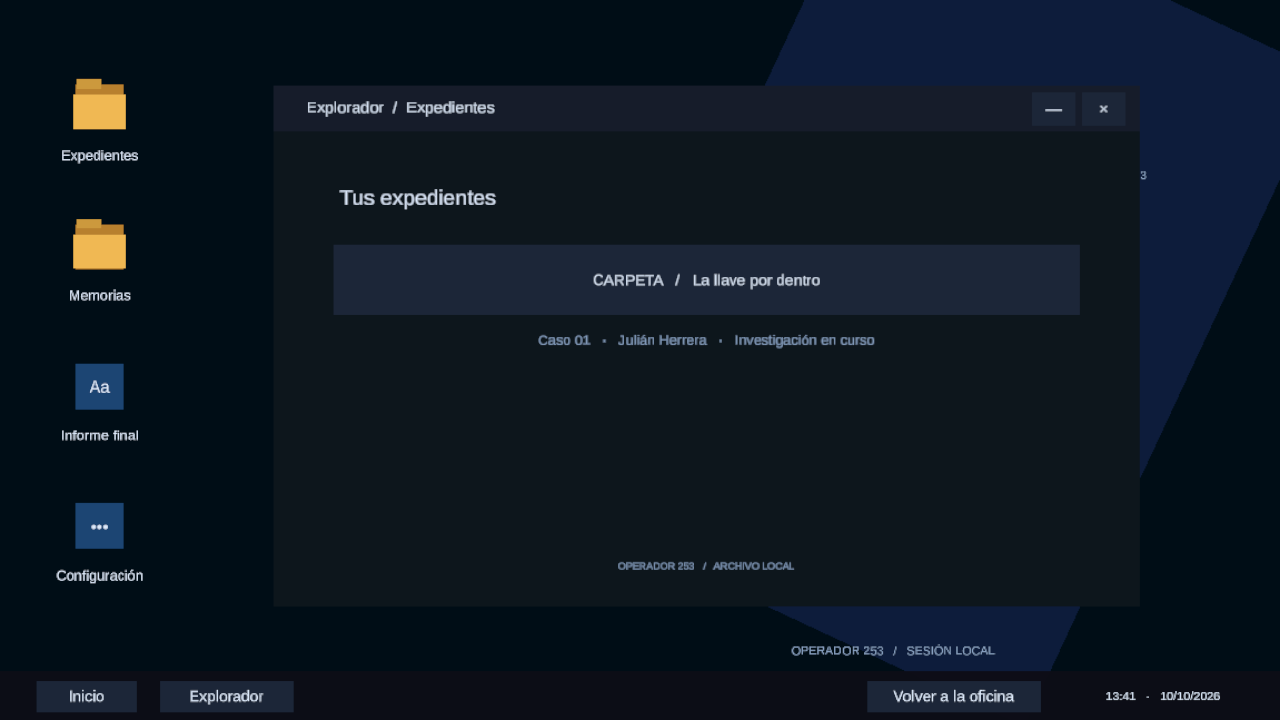
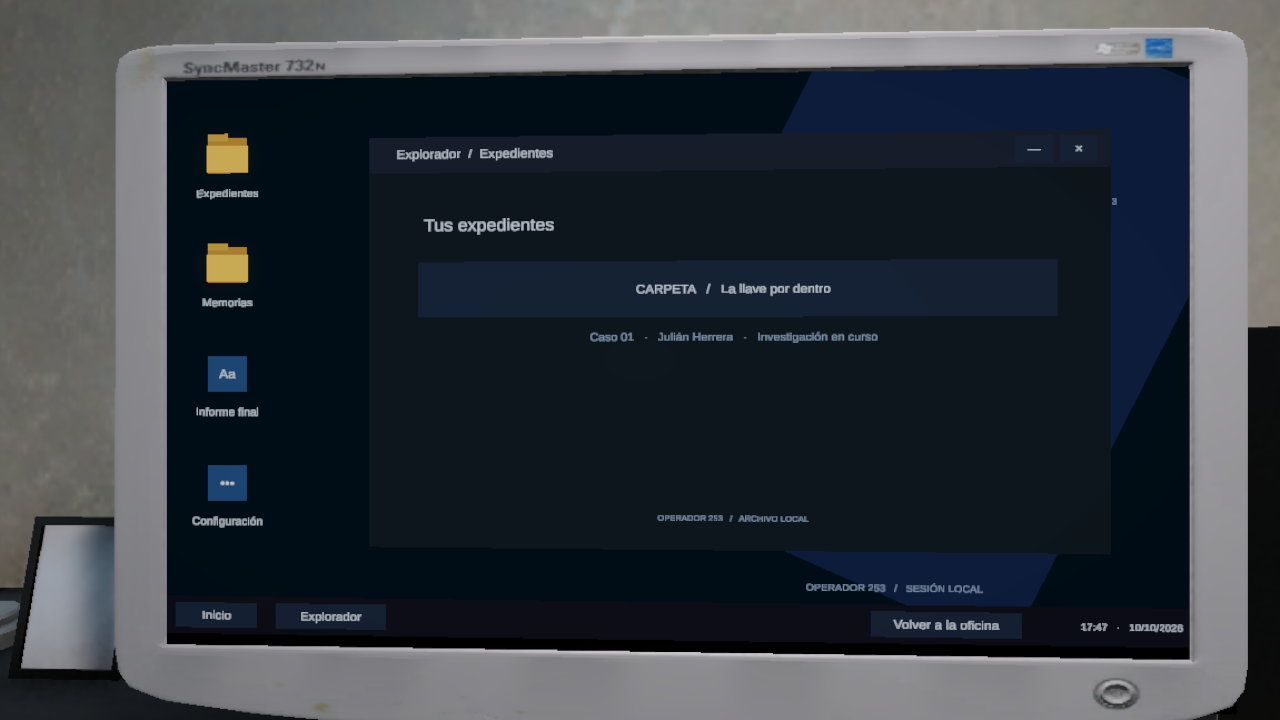
Documentar y registrar la regresión limpia del monitor físico
Actualiza la guía del monitor en la escena, cursor limitado, sesión persistente y animaciones. Registra el recorrido final con 37 comprobaciones aprobadas y cero fallos de runtime, junto con capturas del escritorio físico, expediente y oficina. La carga caliente de regreso midió 1,23 segundos en esta ejecución. Verificación: informe final y revisión visual de la barra de tareas dentro del marco; preferencias del usuario restauradas.

diff --git a/Docs/MechanicsLab.md b/Docs/MechanicsLab.md
@@ -43,7 +43,11 @@ En la rueda G, elegir MARCADORES. Clic inicia un holograma: Q/R o la rueda lo ro
 
 ## Escritorio de la oficina
 
-El ordenador usa Archive OS: arranque de sesión, aplicaciones, ventanas movibles/minimizables, barra de tareas y carpetas Expedientes / La llave por dentro / Memorias. La configuración abre las opciones del juego. El expediente puede releerse desde su carpeta. Se retiraron las dos tarjetas de presentación iniciales.
+El ordenador usa Archive OS en un Canvas de espacio de mundo sobre la pantalla física del monitor, sin cubrir la cámara del jugador. El cursor queda limitado a esa superficie mientras se usa el ordenador; los diálogos, expediente y configuración permiten su propio cursor. Las ventanas abren, cierran y minimizan con fundido y movimiento breve; Explorador en la barra de tareas restaura la ventana minimizada. Al apartarse del ordenador, el monitor conserva su sesión y la ventana abierta, pero deja de recibir clics. La transición a una memoria apaga la pantalla.
+
+Archive OS incluye arranque de sesión, aplicaciones y carpetas Expedientes / La llave por dentro / Memorias. La configuración abre las opciones del juego. El expediente puede releerse desde su carpeta. Se retiraron las dos tarjetas de presentación iniciales. `Archive NULL > Test office monitor in editor` verifica el monitor en el editor ya abierto sin crear una build ni regenerar el laboratorio.
+
+La altura útil de la pantalla se ajusta con `desktopScreenHeight` en el controlador del monitor, conservando el borde superior para que la barra no quede oculta detrás del marco inferior. Durante una carga se suspenden los raycasters del entorno saliente para evitar consultar renderers que Unity está descargando. La regresión del monitor recorrió oficina → F1-Office → oficina con 37 comprobaciones aprobadas y cero fallos de runtime.
 
 La primera sesión exige abrir el expediente físico antes de sentarse o acceder al ordenador. El indicador superior guía: expediente → asiento → escritorio → seleccionar memoria → visor. Los retratos de Julián, Nicolás, Sofía y Víctor están en Resources/CasePortraits/People.png (atlas 2×2, personajes ficticios).
 
